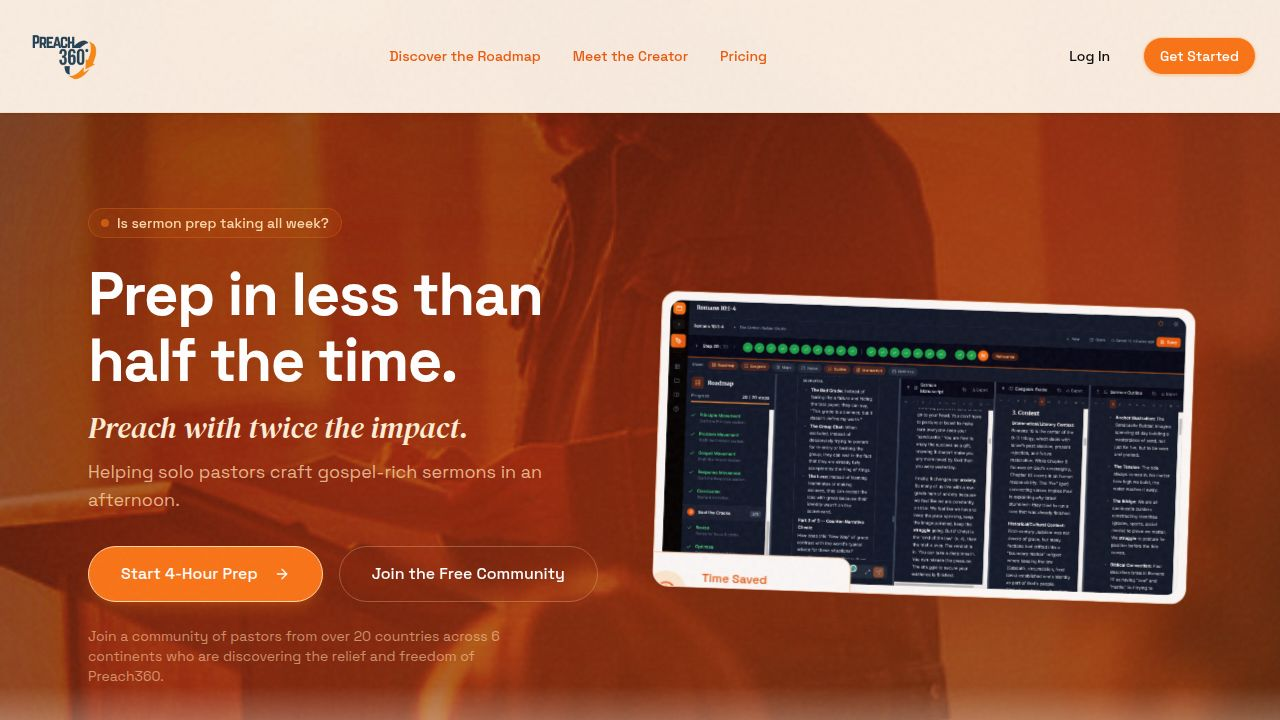
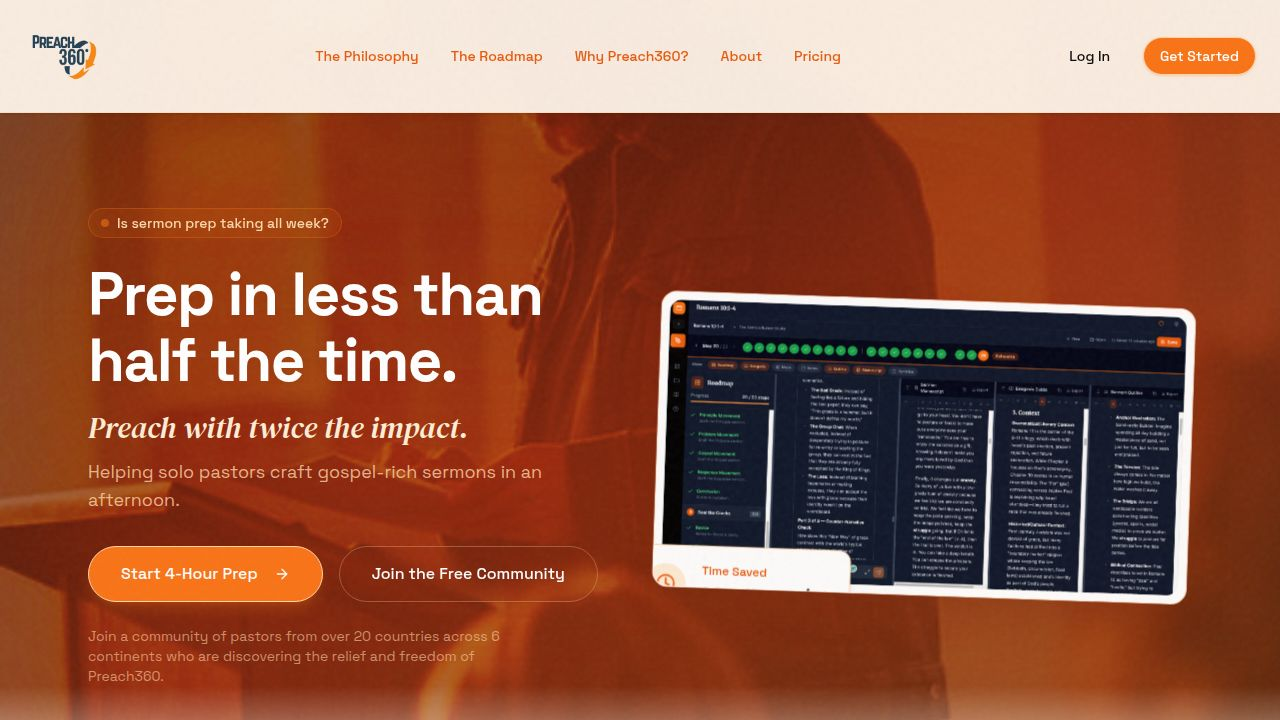
Update navigation link text from "Meet the Creator" to "About"
Changes the text of the navigation link from "Meet the Creator" to "About" by modifying the `navbar.tsx` file.

Replit-Commit-Author: Agent
Replit-Commit-Session-Id: b40ebc65-716c-42ff-8a29-f355e8ec55d6
Replit-Commit-Checkpoint-Type: full_checkpoint
Replit-Commit-Event-Id: 2d91f2f8-84af-4e37-8af2-dbac2d669660
Replit-Commit-Screenshot-Url: https://storage.googleapis.com/screenshot-production-us-central1/52b2e9a9-1aca-4f31-b761-2a0e85fbc987/b40ebc65-716c-42ff-8a29-f355e8ec55d6/GNzNvkL
Replit-Helium-Checkpoint-Created: true

diff --git a/client/src/components/navbar.tsx b/client/src/components/navbar.tsx
@@ -17,7 +17,7 @@ export function Navbar() {
           <a href="#system" className="hover:text-foreground transition-colors">The Philosophy</a>
           <a href="#roadmap" className="hover:text-foreground transition-colors">The Roadmap</a>
           <a href="#features" className="hover:text-foreground transition-colors">Why Preach360?</a>
-          <a href="#about" className="hover:text-foreground transition-colors">Meet the Creator</a>
+          <a href="#about" className="hover:text-foreground transition-colors">About</a>
           <a href="#pricing" className="hover:text-foreground transition-colors">Pricing</a>
         </div>
 
